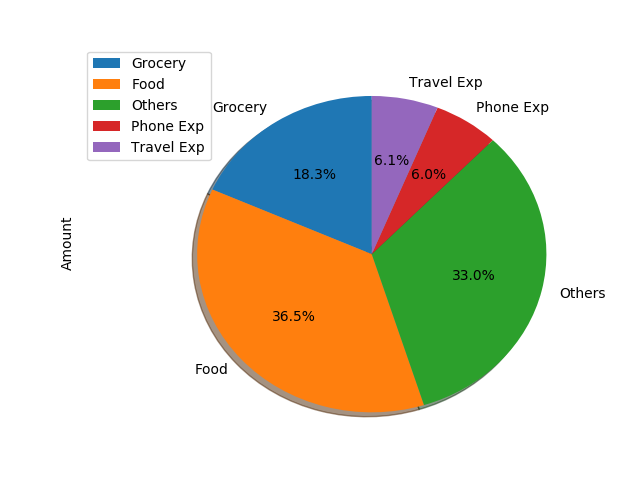
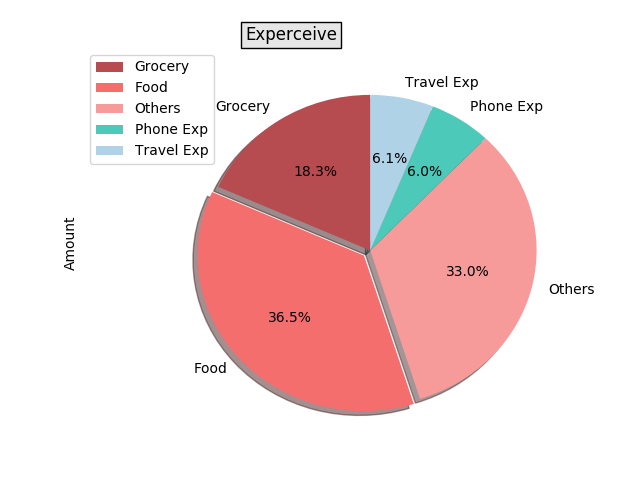
'firstvizrec'

diff --git a/analyzer.py b/analyzer.py
@@ -7,14 +7,23 @@ def csvAnalze(file):
 	dfinit = pd.read_csv(file)
 	dfcat = dfinit.groupby('Category').sum()
 	labels = ['Grocery', 'Food', 'Others', 'Phone Exp', 'Travel Exp']
-	dfcat.plot(kind='pie', subplots='True', autopct='%1.1f%%', 
-		labels=labels, shadow=True, startangle=90)
+	explode = (0, 0.05, 0, 0, 0)
+	colors = ['#b64b50', '#f46e6e', '#f69a9a', '#4dc9ba', '#afd2e7']
+	
+	dfcat.plot(kind='pie', subplots='True', autopct='%1.1f%%', labels=labels, 
+				shadow=True, startangle=90, explode=explode, colors=colors)
+
+	plt.subplots_adjust(left=0.13, bottom=0.09, right=0.78, top=0.9, 
+						wspace=0.2, hspace=0.2)
+
+	plt.title('Experceive', bbox={'facecolor' : '0.9', 'pad' : 3})
+	plt.show()
 	return dfcat
 
 
 if __name__ == "__main__":
-	logging.basicConfig(filename='analyzerlog.log', filemode='w', level=logging.DEBUG)
+	logging.basicConfig(filename='analyzerlog.log', filemode='w', 
+						level=logging.DEBUG)
 	logging.info('Started')
 	ret = csvAnalze('JulyExp.csv')
 	logging.debug(ret)
-	plt.show()
